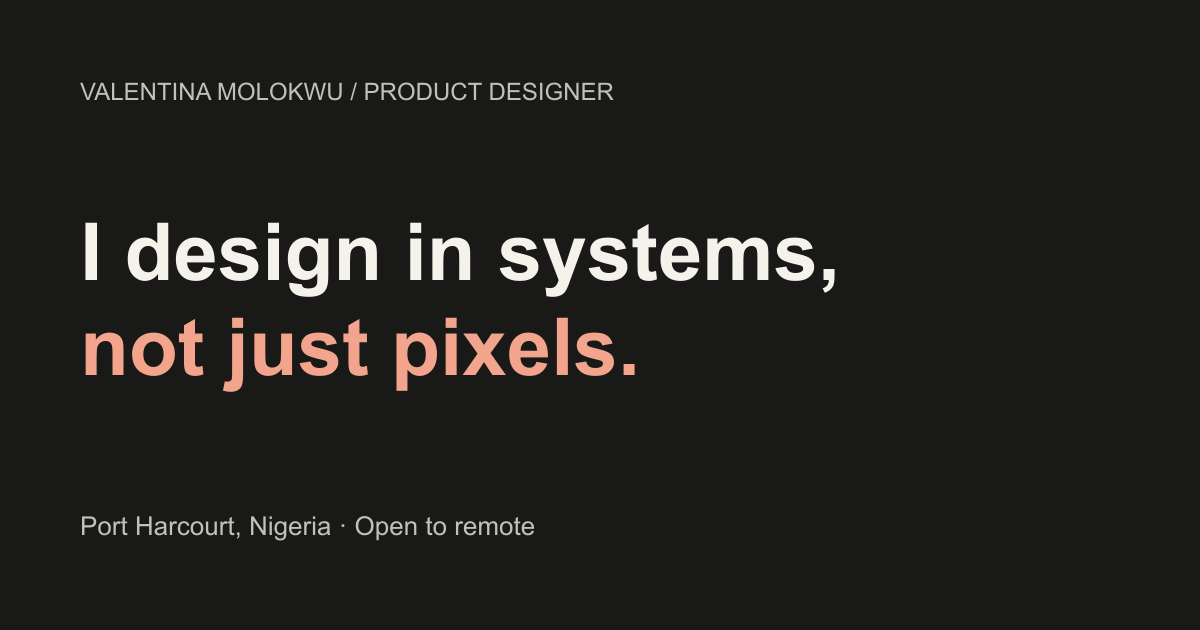
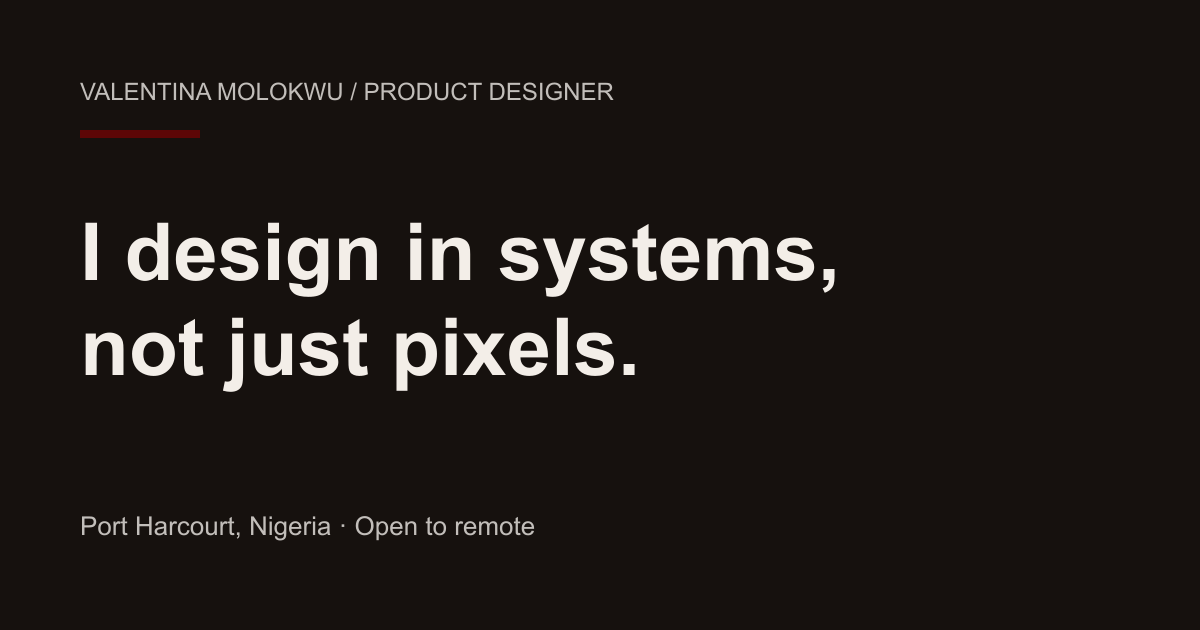
style: restore original maroon portfolio palette

Changed region(s): [[0.0617, 0.5127, 0.5242, 0.6333], [0.0617, 0.181, 0.185, 0.2413]]

diff --git a/src/styles/components.css b/src/styles/components.css
@@ -22,7 +22,7 @@
   letter-spacing: var(--tracking-heading);
 }
 .logo span {
-  color: var(--color-accent);
+  color: var(--color-accent-text);
 }
 .nav-desktop {
   display: flex;
@@ -38,7 +38,7 @@
 }
 .nav-link:hover,
 .nav-link[aria-current] {
-  color: var(--color-accent);
+  color: var(--color-accent-text);
   text-decoration: underline;
   text-underline-offset: var(--space-1);
 }
@@ -60,7 +60,7 @@
 .btn-primary,
 .contact-email-btn {
   background: var(--color-accent);
-  color: var(--color-ink);
+  color: var(--color-on-accent);
 }
 .btn-secondary {
   border: var(--border-width) solid var(--color-border-alpha);
@@ -100,7 +100,7 @@
   margin-bottom: var(--space-3);
 }
 .display-text span {
-  color: var(--color-accent);
+  color: var(--color-accent-text);
 }
 .hero-subhead {
   font-size: var(--text-lead);
@@ -186,7 +186,7 @@
   gap: var(--space-3);
   align-items: center;
   min-height: var(--space-6);
-  color: var(--color-accent);
+  color: var(--color-accent-text);
   font-size: var(--text-body);
   font-weight: 600;
   margin-top: auto;
@@ -203,7 +203,7 @@
   margin-top: var(--space-4);
   min-height: var(--space-6);
   align-items: center;
-  color: var(--color-accent);
+  color: var(--color-accent-text);
 }
 .portfolio-context {
   max-width: var(--measure);
@@ -314,7 +314,7 @@
 }
 .case-overview .eyebrow {
   font-size: var(--text-small);
-  color: var(--color-accent);
+  color: var(--color-accent-text);
   margin-bottom: var(--space-2);
 }
 .case-outcome {
@@ -369,7 +369,7 @@
   font-size: var(--text-h3);
 }
 .more-works-see-more {
-  color: var(--color-ink);
+  color: var(--color-on-accent);
 }
 .more-works-video-wrap:focus-within .more-works-see-more {
   opacity: 1;
@@ -389,11 +389,11 @@
   width: var(--hero-stamp-size);
   aspect-ratio: 1;
   border-radius: 50%;
-  border: var(--hero-stamp-border) solid var(--color-ink);
-  outline: var(--border-width) dashed var(--color-ink);
+  border: var(--hero-stamp-border) solid var(--color-on-accent);
+  outline: var(--border-width) dashed var(--color-on-accent);
   outline-offset: calc(var(--hero-stamp-inset) * -1);
   background: var(--color-accent);
-  color: var(--color-ink);
+  color: var(--color-on-accent);
   box-shadow: var(--hero-stamp-shadow);
   display: flex;
   flex-direction: column;

diff --git a/src/styles/tokens.css b/src/styles/tokens.css
@@ -1,13 +1,16 @@
 :root {
-  --color-bg: #191917;
-  --color-surface: #222320;
-  --color-text-primary: #f5f2eb;
-  --color-text-secondary: #c1c1b7;
-  --color-accent: #f2a58c;
-  --color-ink: #222320;
-  --color-paper: #f5f2eb;
+  --color-bg: #16110e;
+  --color-surface: #1b1512;
+  --color-text-primary: #f3eee8;
+  --color-text-secondary: #c2beba;
+  --color-accent: #5d0606;
+  --color-on-accent: #f3eee8;
+  --color-accent-text: #f3eee8;
+  --color-focus: #b85c5c;
+  --color-ink: #1b1512;
+  --color-paper: #f3eee8;
   --color-muted-ink: #575b52;
-  --color-border-alpha: #41443b;
+  --color-border-alpha: #4d3934;
   --font-body: "Manrope", system-ui, sans-serif;
   --text-small: 0.875rem;
   --text-body: 1rem;
@@ -510,7 +513,7 @@
 :root {
   --text-title: 1.5rem;
   --text-section: 2rem;
-  --case-scrim: #191917d9;
+  --case-scrim: #16110ed9;
 }
 
 /* Documented project palette swatches, not site UI colors. */

diff --git a/src/pages/PortfolioCaseStudy.css b/src/pages/PortfolioCaseStudy.css
@@ -123,7 +123,7 @@
   font-weight: 500;
   font-size: var(--text-body);
   line-height: var(--layout-detail-40);
-  color: var(--color-text-primary);
+  color: var(--color-on-accent);
   cursor: pointer;
   transition: none;
 }
@@ -709,4 +709,4 @@
 .portfolio-hero-video-scrim {background: var(--case-scrim);}
 
 .portfolio-page {padding-top: var(--header-height);}
-.portfolio-hero-btn {color: var(--color-ink); min-height: var(--space-6);}
+.portfolio-hero-btn {color: var(--color-on-accent); min-height: var(--space-6);}

diff --git a/src/pages/GuidelyCaseStudy.css b/src/pages/GuidelyCaseStudy.css
@@ -150,7 +150,7 @@
   font-weight: 500;
   font-size: var(--text-body);
   line-height: var(--layout-detail-40);
-  color: var(--color-text-primary);
+  color: var(--color-on-accent);
   cursor: pointer;
   transition: none;
 }
@@ -2385,5 +2385,5 @@
 }
 
 .guidely-page {padding-top: var(--header-height);}
-.guidely-hero-btn {color: var(--color-ink); min-height: var(--space-6);}
+.guidely-hero-btn {color: var(--color-on-accent); min-height: var(--space-6);}
 #guidely-problem {scroll-margin-top: var(--space-3);}

diff --git a/src/pages/ThermalCaseStudy.css b/src/pages/ThermalCaseStudy.css
@@ -247,7 +247,7 @@
   font-weight: 500;
   font-size: var(--text-body);
   line-height: var(--layout-detail-40);
-  color: var(--color-text-primary);
+  color: var(--color-on-accent);
   cursor: pointer;
   transition: none;
 }
@@ -2177,5 +2177,5 @@
 }
 
 .thermal-page {padding-top: var(--header-height);}
-.thermal-hero-btn {color: var(--color-ink); min-height: var(--space-6);}
+.thermal-hero-btn {color: var(--color-on-accent); min-height: var(--space-6);}
 #thermal-problem {scroll-margin-top: var(--space-3);}

diff --git a/src/styles/base.css b/src/styles/base.css
@@ -76,7 +76,7 @@ ul {
   list-style: none;
 }
 :focus-visible {
-  outline: var(--focus-width) solid var(--color-accent);
+  outline: var(--focus-width) solid var(--color-focus);
   outline-offset: var(--space-1);
 }
 main:focus {
@@ -88,7 +88,7 @@ summary {
 }
 ::selection {
   background: var(--color-accent);
-  color: var(--color-ink);
+  color: var(--color-on-accent);
 }
 [hidden] {
   display: none !important;

diff --git a/index.html b/index.html
@@ -26,7 +26,7 @@
       property="og:description"
       content="I Design In Systems, Not Just Pixels – Product Designs That Feel Personal."
     />
-    <meta name="theme-color" content="#191917" />
+    <meta name="theme-color" content="#16110e" />
     <title>Valentina - Product Designer</title>
   </head>
   <body>

diff --git a/src/components/MoreOfMyWorks.css b/src/components/MoreOfMyWorks.css
@@ -169,7 +169,7 @@
   font-family: var(--font-body);
   font-weight: 500;
   font-size: var(--text-small);
-  color: var(--color-text-primary);
+  color: var(--color-on-accent);
   white-space: nowrap;
   opacity: 0;
   pointer-events: none;

diff --git a/src/styles/layout.css b/src/styles/layout.css
@@ -278,7 +278,7 @@ main,
 }
 .process-steps span {
   display: block;
-  color: var(--color-accent);
+  color: var(--color-accent-text);
   font-size: var(--text-small);
   margin-bottom: var(--space-1);
 }

diff --git a/DESIGN_REFINEMENT.md b/DESIGN_REFINEMENT.md
@@ -68,3 +68,7 @@ Files: `src/assets/valentina-portrait.webp`, `src/components/Hero.jsx`, and the 
 ## Torn-paper portrait follow-up
 
 Replaced the hero's rectangular portrait with a transparent silhouette and an irregular off-white torn-paper edge, using the built-in imagegen edit tool. The stamp remains. The original photo asset is retained; the new asset is `src/assets/valentina-portrait-torn.webp`. Prompt, generation mode, and verification details are in `artifacts/portrait-edit.md`. Production build and responsive preview checks passed.
+
+## Original palette restored
+
+Restored the original deep maroon (`#5d0606`), warm dark backgrounds, and off-white foregrounds at the owner's request. This supersedes the initial coral choice described above. Buttons, stamp, selection, case-study CTAs, and the share image use the restored theme. Off-white accent text keeps links and headings readable on dark surfaces; a related red focus indicator works on light and dark surfaces. Layout, portrait, and motion are retained. Full build/prerender, four-width hero preview, reduced motion, CSS token compliance, and solid-background text contrast checks passed.
